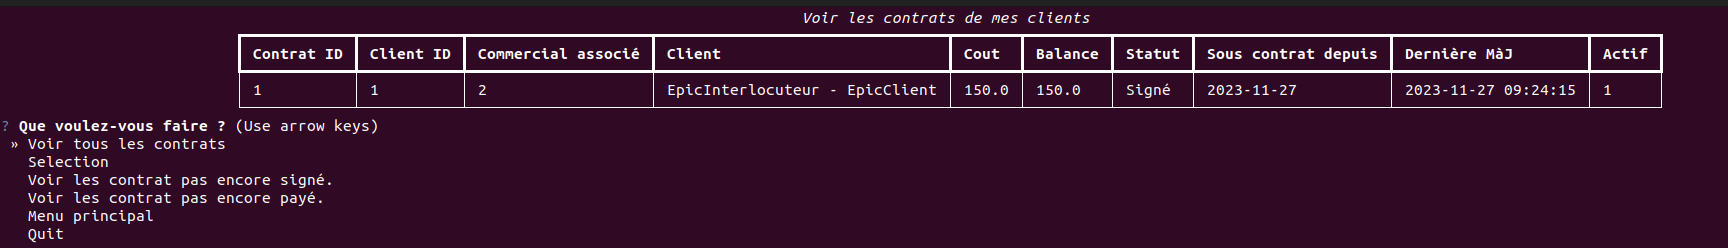
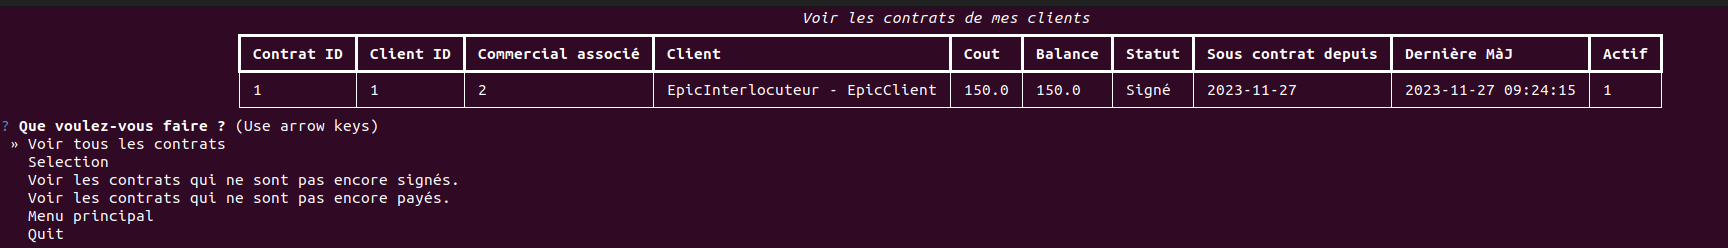
Clarification du nom d'affichage de certaines vues

Changed region(s): [[0.0938, 0.7056, 0.2812, 0.8185]]

diff --git a/epic_event_CRM/contract/view.py b/epic_event_CRM/contract/view.py
@@ -19,14 +19,14 @@ class UserClientContractView(ContractView):
 
 
 class UnsignedContract(UserClientContractView):
-    name_display = "Voir les contrat pas encore signé."
+    name_display = "Voir les contrats qui ne sont pas encore signés."
 
     filter = f"`Statut` = '{ContractStatus.to_sign.value}'"
     context_requirements = [UserClientContractView]
 
 
 class UnPayedContract(UserClientContractView):
-    name_display = "Voir les contrat pas encore payé."
+    name_display = "Voir les contrats qui ne sont pas encore payés."
 
     filter = f"`Statut` = '{ContractStatus.to_pay.value}'"
     context_requirements = [UserClientContractView]
